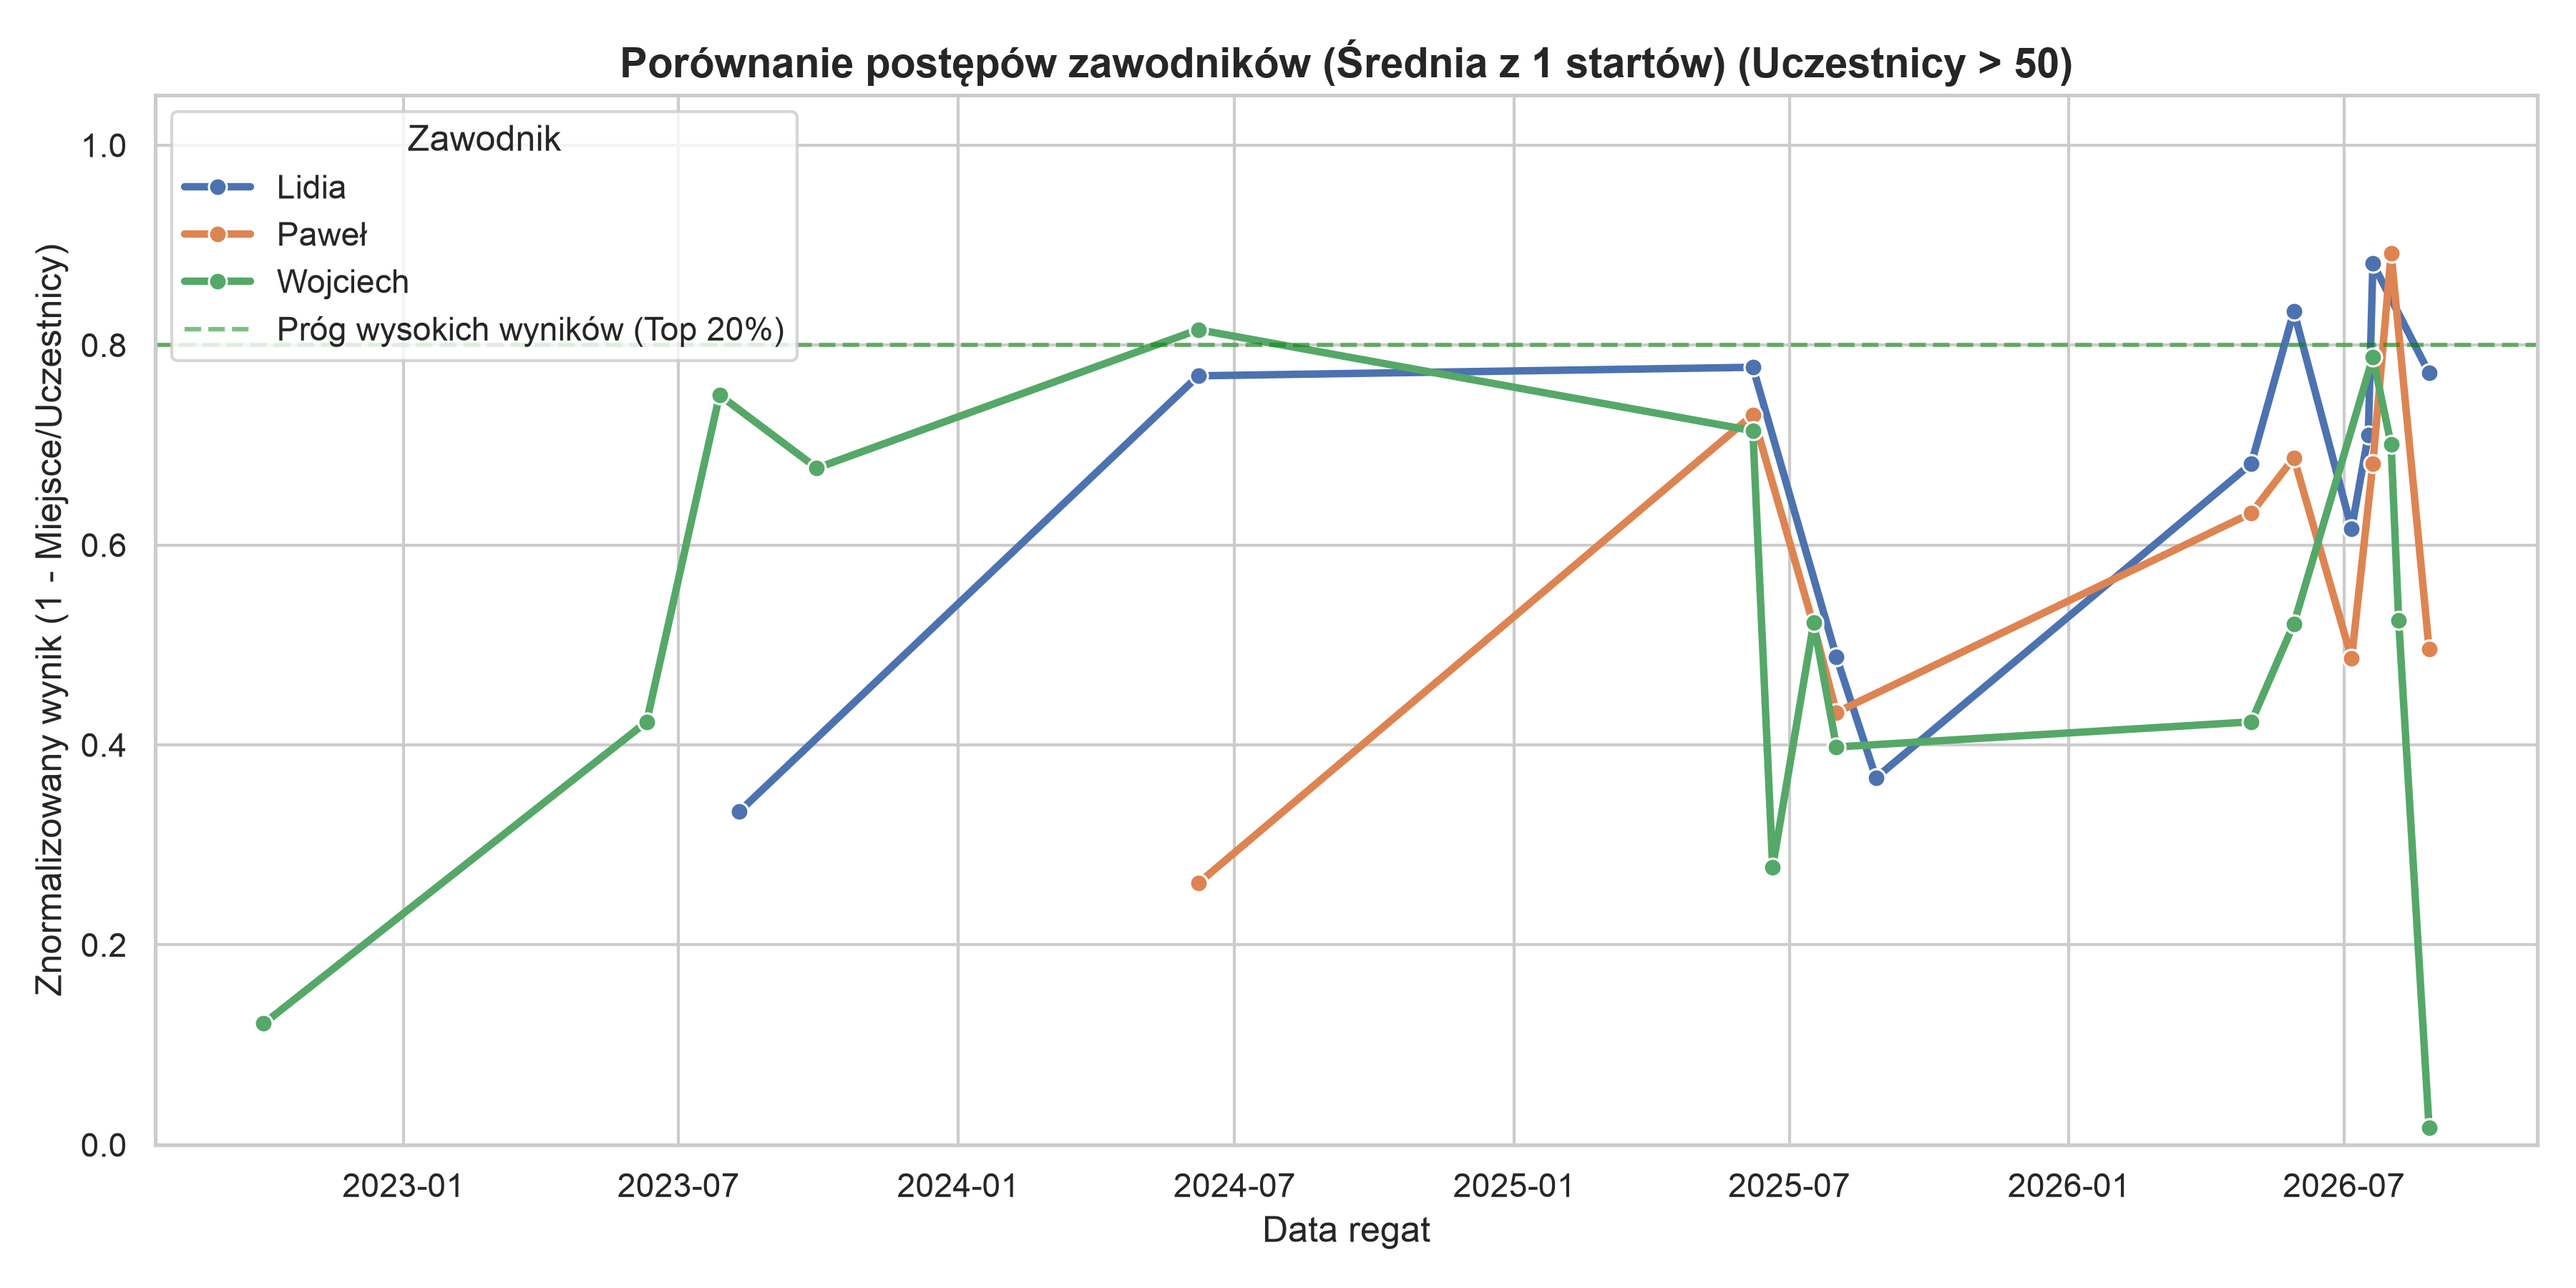
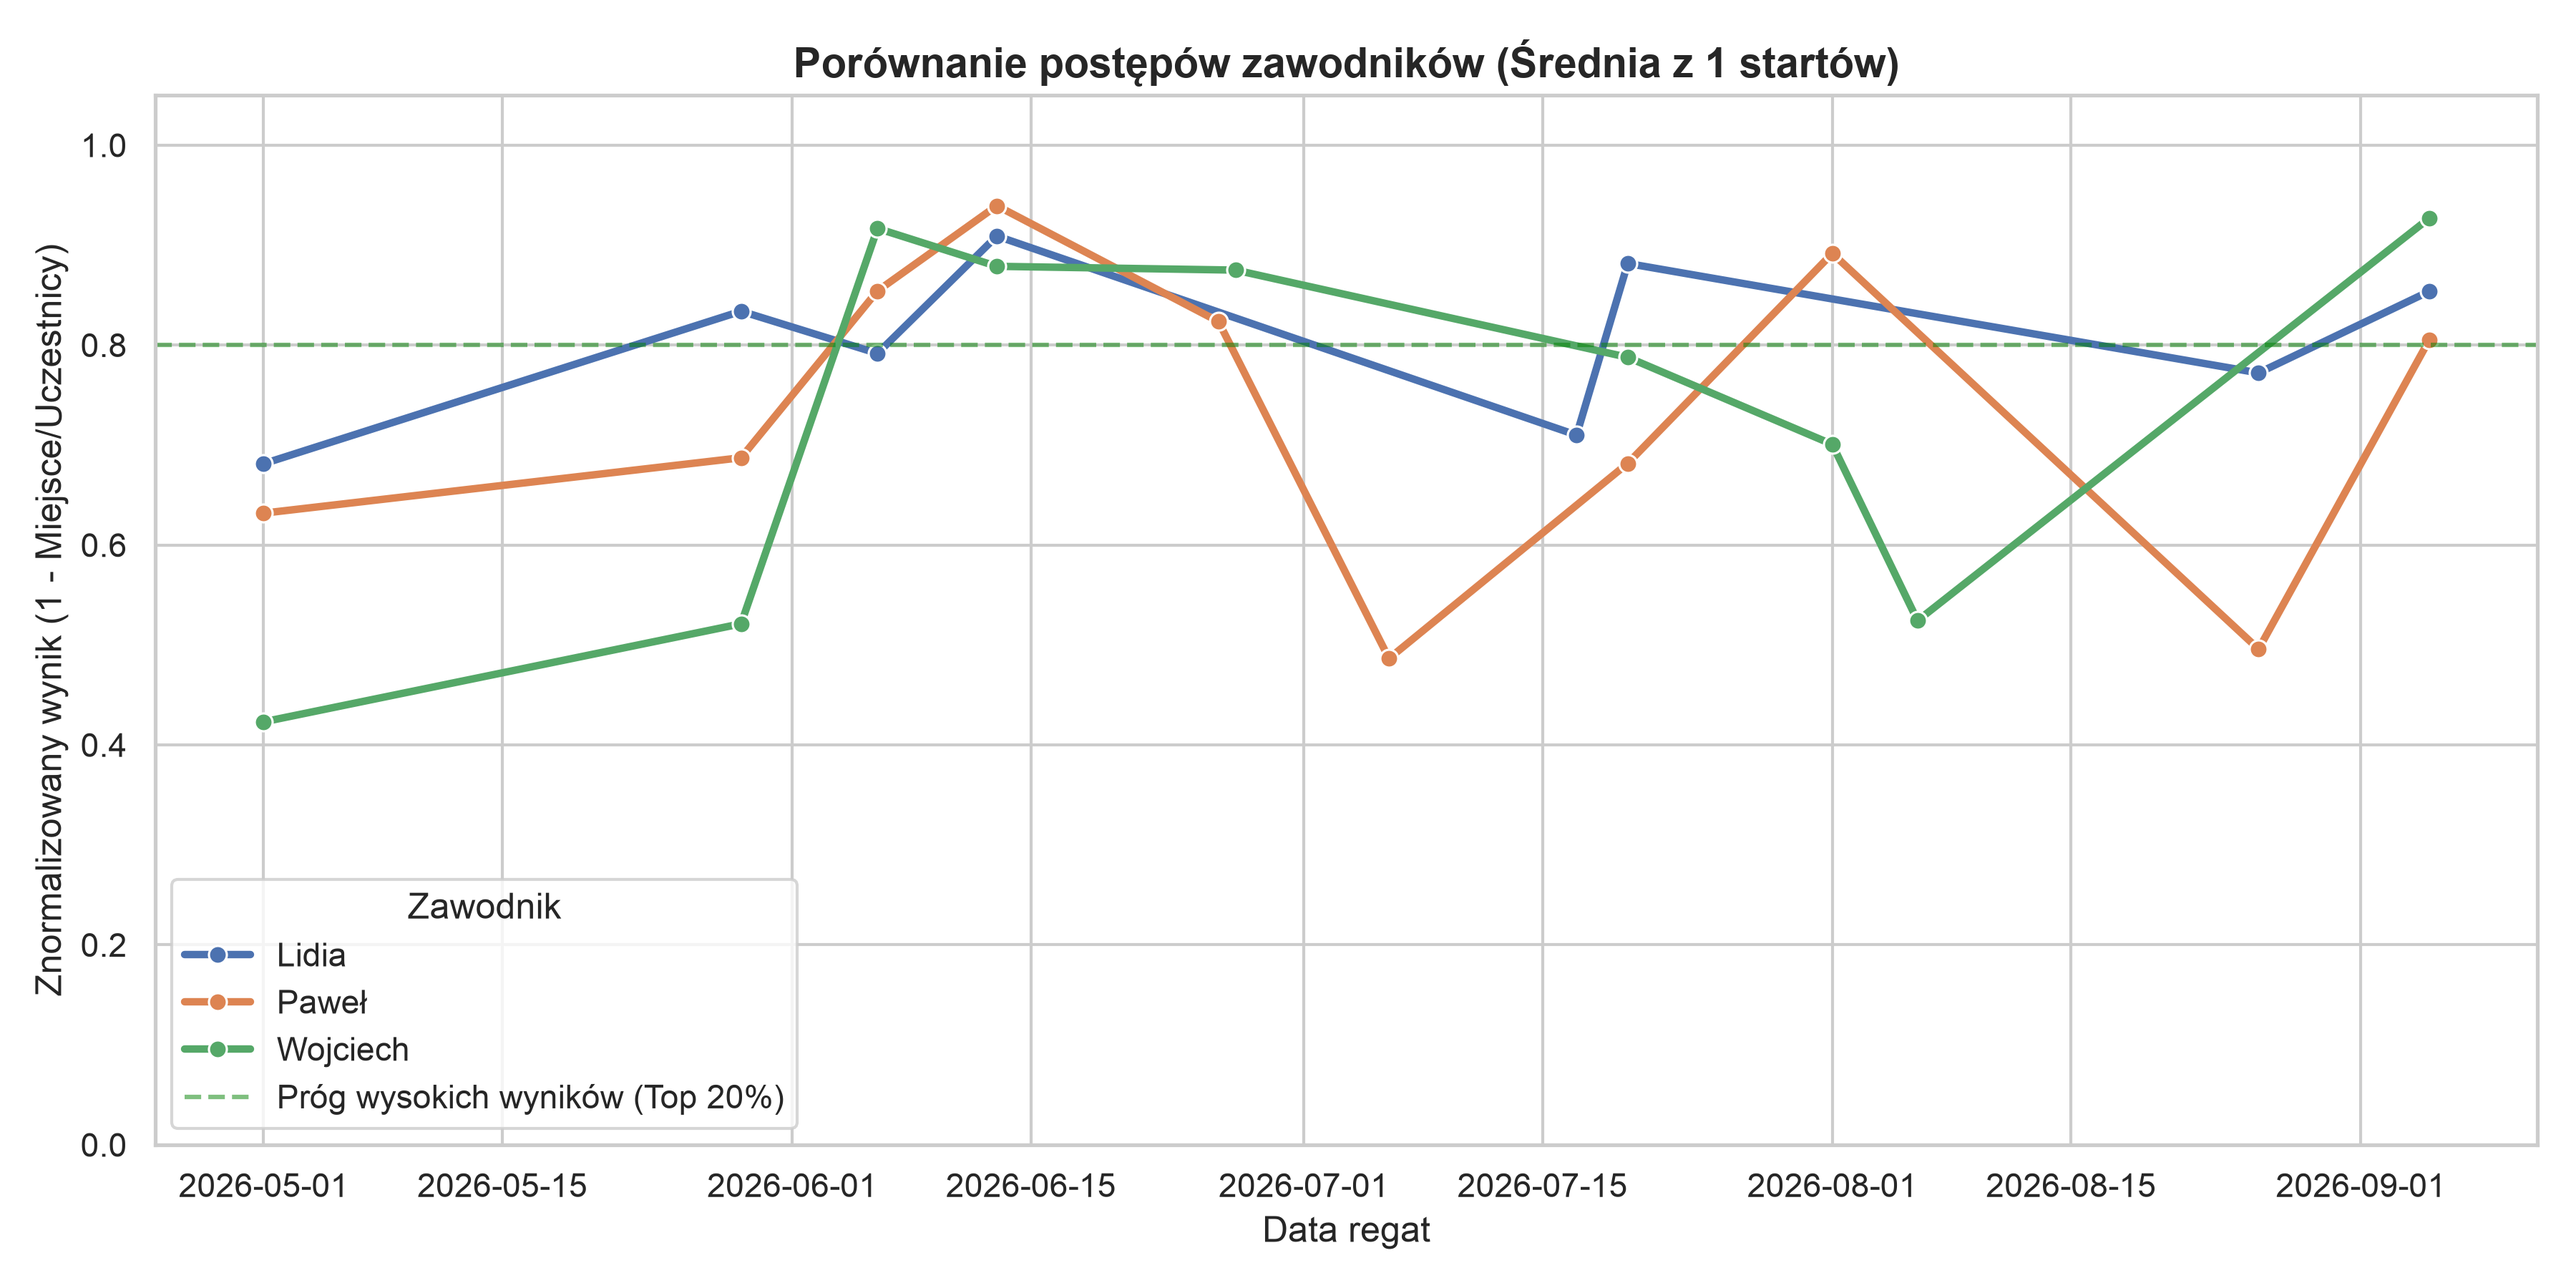
feat(analytics): dodano mechanizm odrzutków (drops) oraz reużycie filtrów sezonów w wykresach

diff --git a/src/generate_charts.py b/src/generate_charts.py
@@ -3,6 +3,8 @@ import sqlite3
 import matplotlib.pyplot as plt
 import pandas as pd
 import seaborn as sns
+from metrics import apply_drops
+from metrics import get_season_range
 
 BASE_DIR = os.path.dirname(os.path.dirname(os.path.abspath(__file__)))
 DB_PATH = os.path.join(BASE_DIR, "data", "zeglarstwo.db")
@@ -43,7 +45,7 @@ def get_participant_filter():
 def get_excluded_regattas(filtered_df, regatta_col):
     """Wyświetla listę regat (przefiltrowaną wstępnie wg liczby uczestników) i umożliwia wykluczenie pozycjonalne."""
     print("\n3. Czy chcesz wykluczyć konkretne regaty z obecnej listy?")
-    choice = input("   [t/N]: ").strip().lower()
+    choice = input("   [T/N]: ").strip().lower()
 
     if choice != "t":
         return []
@@ -101,6 +103,16 @@ def generate_chart():
     conn.close()
 
     df["Data_rozpoczecia"] = pd.to_datetime(df["Data_rozpoczecia"])
+    df["Rok"] = df["Data_rozpoczecia"].dt.year
+
+    available_years = df["Rok"].dropna().unique()
+    if len(available_years) > 0:
+        start_year, end_year = get_season_range(available_years)
+        df = df[(df["Rok"] >= start_year) & (df["Rok"] <= end_year)]
+
+    if df.empty:
+        print(f" Brak startów w wybranym zakresie lat!")
+        return
 
     # Określenie kolumny z nazwą regat
     regatta_col = (
@@ -135,6 +147,13 @@ def generate_chart():
     if df.empty:
         print("Wykluczono wszystkie dostępne regaty! Brak danych do wykresu.")
         return
+
+    # --- FILTR 3: WYKLUCZANIE NAJGORSZYCH WYNIKÓW ---
+    drops_input = input("\n Ile najgorszych wyników odrzucić? [0]: ").strip()
+    drops_count = int(drops_input) if drops_input.isdigit() else 0
+
+    if drops_count > 0:
+        df = apply_drops(df, drops_count)
 
     # Sortowanie pod średnią kroczącą
     df = df.sort_values(["Zawodnik", "Data_rozpoczecia"])

diff --git a/src/metrics.py b/src/metrics.py
@@ -24,6 +24,22 @@ def get_season_range(available_years):
     end_year = int(end_year_input) if end_year_input else max_year
     return start_year, end_year
 
+def apply_drops(df, drops_count):
+    """Usuwa N najgorszych wyników (najniższy wskaźnik Normalizacji) dla każdego zawodnika."""
+    if drops_count <= 0:
+        return df
+
+        # Wyszukujemy indeksy N najgorszych wyników dla każdego zawodnika
+    worst_indices = (
+        df.sort_values("Normalizacja", ascending=True)
+        .groupby("Zawodnik")
+        .head(drops_count)
+        .index
+    )
+
+    # Odrzucamy te indeksy z oryginalnej ramki danych
+    return df.drop(index=worst_indices)
+
 def calculate_metrics():
     "Oblicza odchylenie standardowe, wskazuje najgorszy i najlepszy wynik, dodaje możliwość podziału wyników na sezony"
     if not os.path.exists(DB_PATH):
@@ -44,6 +60,12 @@ def calculate_metrics():
     if df.empty:
         print(f"Brak startów w latach {start_year}-{end_year}")
         return
+
+    drops_input = input("\n Ile najgorszych wyników odrzucić? [0]: ").strip()
+    drops_count = int(drops_input) if drops_input.isdigit() else 0
+
+    if drops_count > 0:
+        df = apply_drops(df, drops_count)
 
     stats_df = df.groupby("Zawodnik")["Normalizacja"].agg(
         Liczba_startow = "count",
